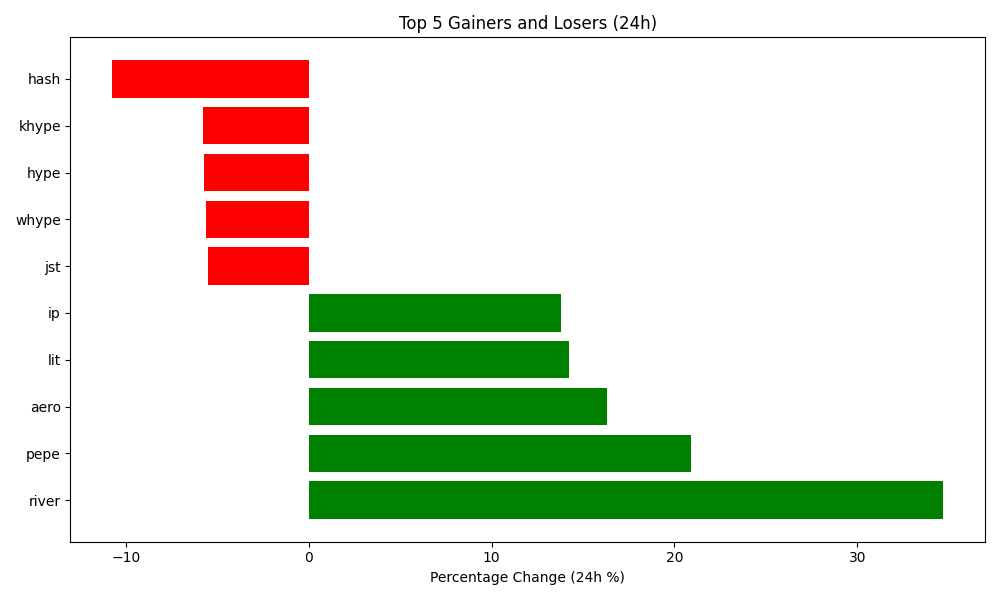
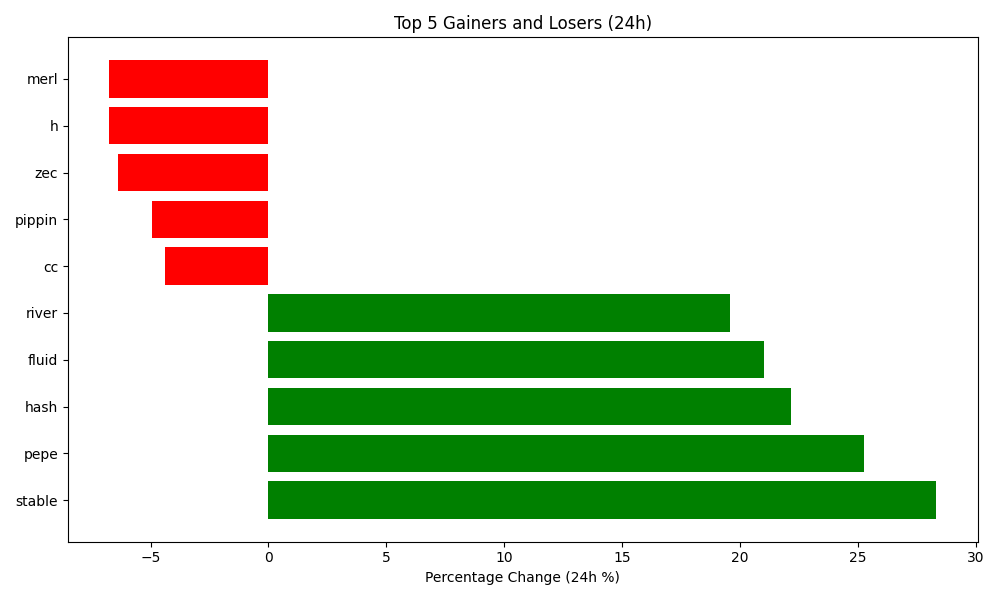
Auto-update crypto data and plot

diff --git a/README.md b/README.md
@@ -4,7 +4,7 @@ Author: Hitesh Agrawal
 This repository automatically tracks the top 5 gaining, top 5 losing, and top 5 highest volume cryptocurrencies in the last 24 hours using the CoinGecko API, Python, Matplotlib, and GitHub Actions updates the below content everyday at midnight.
 
 <!-- START_DYNAMIC_CONTENT -->
-Last updated: 2026-01-02 01:10 UTC
+Last updated: 2026-01-03 01:06 UTC
 
 ![Crypto Movers Plot](crypto_movers_plot.png)
 
@@ -12,33 +12,33 @@ Last updated: 2026-01-02 01:10 UTC
 
 | Rank | Coin | Price Change (24h %) | Volume (USD) | Current Price (USD) |
 | :--: | :--: | :------------------: | :----------: | :-----------------: |
-| 1 | river | 34.71% | $63,806,694 | $15.2800 |
-| 2 | pepe | 20.89% | $591,165,074 | $0.0000 |
-| 3 | aero | 16.30% | $43,857,682 | $0.4706 |
-| 4 | lit | 14.25% | $19,283,183 | $2.6600 |
-| 5 | ip | 13.78% | $189,479,840 | $1.9400 |
+| 1 | stable | 28.32% | $56,906,199 | $0.0189 |
+| 2 | pepe | 25.27% | $1,857,213,744 | $0.0000 |
+| 3 | hash | 22.16% | $18,883 | $0.0327 |
+| 4 | fluid | 20.99% | $10,274,242 | $3.2400 |
+| 5 | river | 19.56% | $30,002,036 | $18.2700 |
 
 
 **👇 Top 5 Losers (24h)**
 
 | Rank | Coin | Price Change (24h %) | Volume (USD) | Current Price (USD) |
 | :--: | :--: | :------------------: | :----------: | :-----------------: |
-| 1 | hash | -10.76% | $2,270 | $0.0267 |
-| 2 | khype | -5.78% | $6,100,695 | $24.6300 |
-| 3 | hype | -5.75% | $226,000,713 | $24.4100 |
-| 4 | whype | -5.63% | $63,986,870 | $24.4500 |
-| 5 | jst | -5.49% | $29,265,595 | $0.0393 |
+| 1 | merl | -6.75% | $31,423,054 | $0.2653 |
+| 2 | h | -6.74% | $46,320,191 | $0.1660 |
+| 3 | zec | -6.37% | $609,689,593 | $493.6400 |
+| 4 | pippin | -4.94% | $27,185,244 | $0.3748 |
+| 5 | cc | -4.41% | $36,392,527 | $0.1479 |
 
 
 **💎 Top 5 by Trade Volume (24h)**
 
 | Rank | Coin | Price Change (24h %) | Volume (USD) | Current Price (USD) |
 | :--: | :--: | :------------------: | :----------: | :-----------------: |
-| 1 | usdt | 0.03% | $39,480,175,497 | $0.9989 |
-| 2 | btc | 1.06% | $21,883,604,777 | $88,646.0000 |
-| 3 | eth | 0.82% | $10,489,251,516 | $3,001.0300 |
-| 4 | usdc | 0.01% | $5,532,708,803 | $0.9999 |
-| 5 | sol | 1.05% | $2,686,737,865 | $126.5700 |
+| 1 | usdt | 0.07% | $84,568,864,169 | $0.9996 |
+| 2 | btc | 1.65% | $50,302,038,912 | $90,126.0000 |
+| 3 | eth | 4.28% | $25,770,007,645 | $3,129.0700 |
+| 4 | usdc | -0.01% | $13,874,574,361 | $0.9998 |
+| 5 | sol | 4.63% | $4,892,544,101 | $132.4500 |
 
 
 <!-- END_DYNAMIC_CONTENT -->
